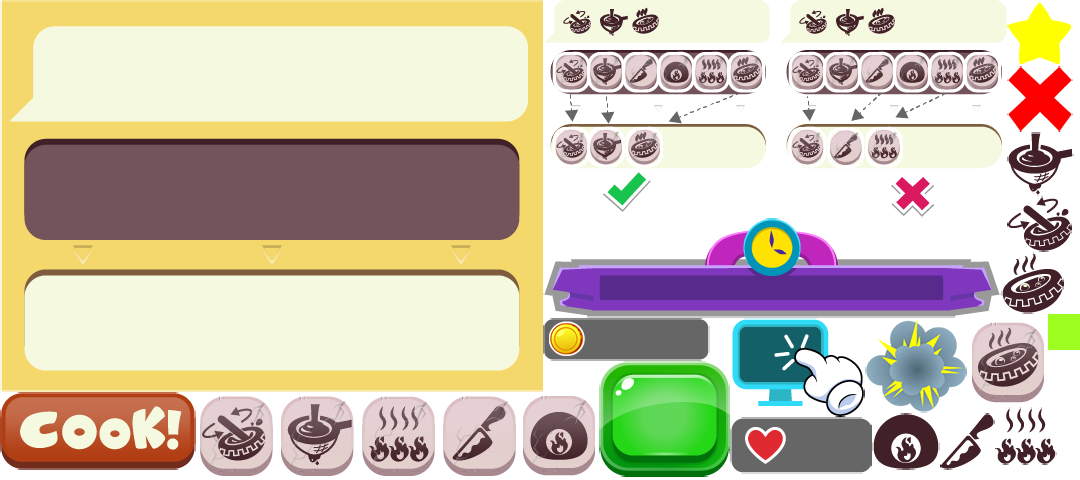
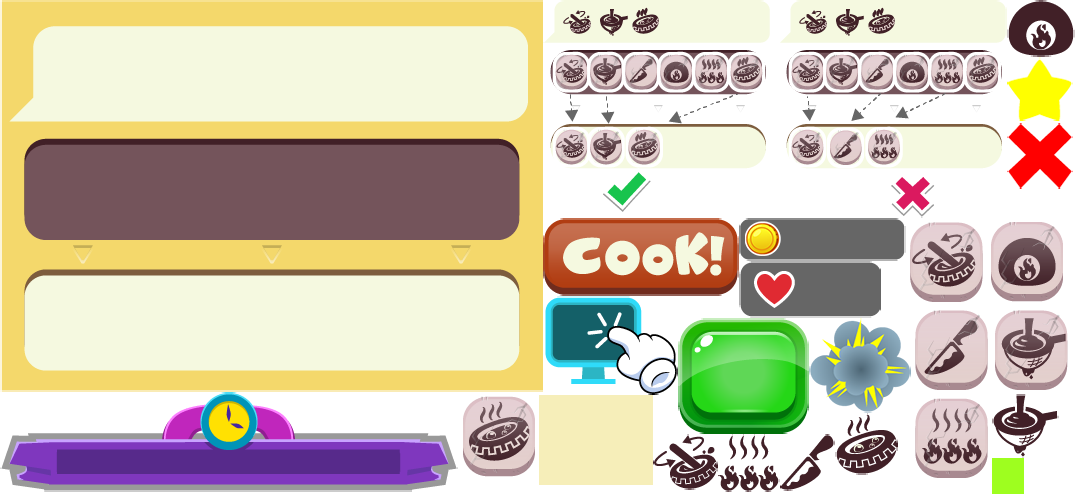
ajustar interfas

diff --git a/nonrefactored/oonaSaysCook/oonaSaysCook/js/scenes/oona.js b/nonrefactored/oonaSaysCook/oonaSaysCook/js/scenes/oona.js
@@ -25,10 +25,6 @@ var oona = function(){
             },
         ],
         images: [
-            {	
-                name: "fondo",
-                file: "images/oona/fondo.png"
-            },
             {
                 name: "bricks",
                 file: "images/oona/bricks.png"
@@ -68,6 +64,7 @@ var oona = function(){
     var onnaSong
     var oonaAvatar
     var cap
+    var gameTime
     var board
     var recipeGroup
     var toolsGroup
@@ -91,6 +88,7 @@ var oona = function(){
         aux = 0
         storePos = 0
         cap = 3
+        gameTime = 10000
         
         inputAnswer = [cap]
         
@@ -350,15 +348,21 @@ var oona = function(){
     }
 
 	function createBackground(){
-		var fondo = sceneGroup.create(game.world.centerX, game.world.centerY, "fondo");
+		var fondo = sceneGroup.create(game.world.centerX, game.world.centerY, 'atlas.oona', "fondo");
         fondo.anchor.setTo(0.5, 0.5)
         fondo.width = game.world.width
         fondo.height = game.world.height	
         
         var bricks = sceneGroup.create(game.world.centerX, game.world.centerY, "bricks");
         bricks.anchor.setTo(0.5, 0.5)
-        bricks.width = game.world.width
-        bricks.height = game.world.height * 0.75
+        bricks.width = game.world.width 
+        bricks.height = game.world.height * 0.5
+        
+        board = sceneGroup.create(0,0,'atlas.oona','board')
+        board.scale.setTo(0.9, 0.9)
+        board.anchor.setTo(0.5, 0.5)
+        board.x = game.world.centerX
+        board.y = board.height * 0.6
 	}
 	
 	function update(){
@@ -624,7 +628,7 @@ var oona = function(){
             game.add.tween(recipeGroup).to({alpha: 1}, 200, Phaser.Easing.linear, true)
             gameActive = true;
             cookBtn.inputEnabled = true
-            timeGroup.tween = game.add.tween(timeGroup.time.scale).to({x: 0}, 10000, Phaser.Easing.linear, true)
+            timeGroup.tween = game.add.tween(timeGroup.time.scale).to({x: 0}, gameTime, Phaser.Easing.linear, true)
             
             timeGroup.tween.onComplete.add(function() 
             {
@@ -671,6 +675,9 @@ var oona = function(){
         aux = 0
         storePos = 0
         
+        if(cap >= 6)
+            gameTime -= 1000
+        
         toolsGroup.destroy()
         tools()
         recipeGroup.destroy()
@@ -689,7 +696,7 @@ var oona = function(){
         oonaAvatar.setSkinByName("normal");
         sceneGroup.add(oonaAvatar);
         
-        cookBtn = sceneGroup.create(game.world.centerX, game.world.centerY - 80, 'atlas.oona', 'cookBtn')
+        cookBtn = sceneGroup.create(game.world.centerX, game.world.centerY - 56, 'atlas.oona', 'cookBtn')
         cookBtn.anchor.setTo(0.5, 0.5)
         cookBtn.inputEnabled = true
         cookBtn.pressed = false
@@ -812,11 +819,6 @@ var oona = function(){
     }
      
     function tools(){
-        board = sceneGroup.create(0,0,'atlas.oona','board')
-        board.scale.setTo(0.9, 0.9)
-        board.anchor.setTo(0.5, 0.5)
-        board.x = game.world.centerX
-        board.y = board.height * 0.5
         
         toolsGroup = game.add.group()
         toolsGroup.x =  game.world.centerX - board.width * 0.37
@@ -900,8 +902,8 @@ var oona = function(){
 			createHearts()
 			buttons.getButton(onnaSong,sceneGroup)
             createOona()
-            createOverlay()
             createTimeBar()
+            createOverlay()
             animateScene()
             
 		},
